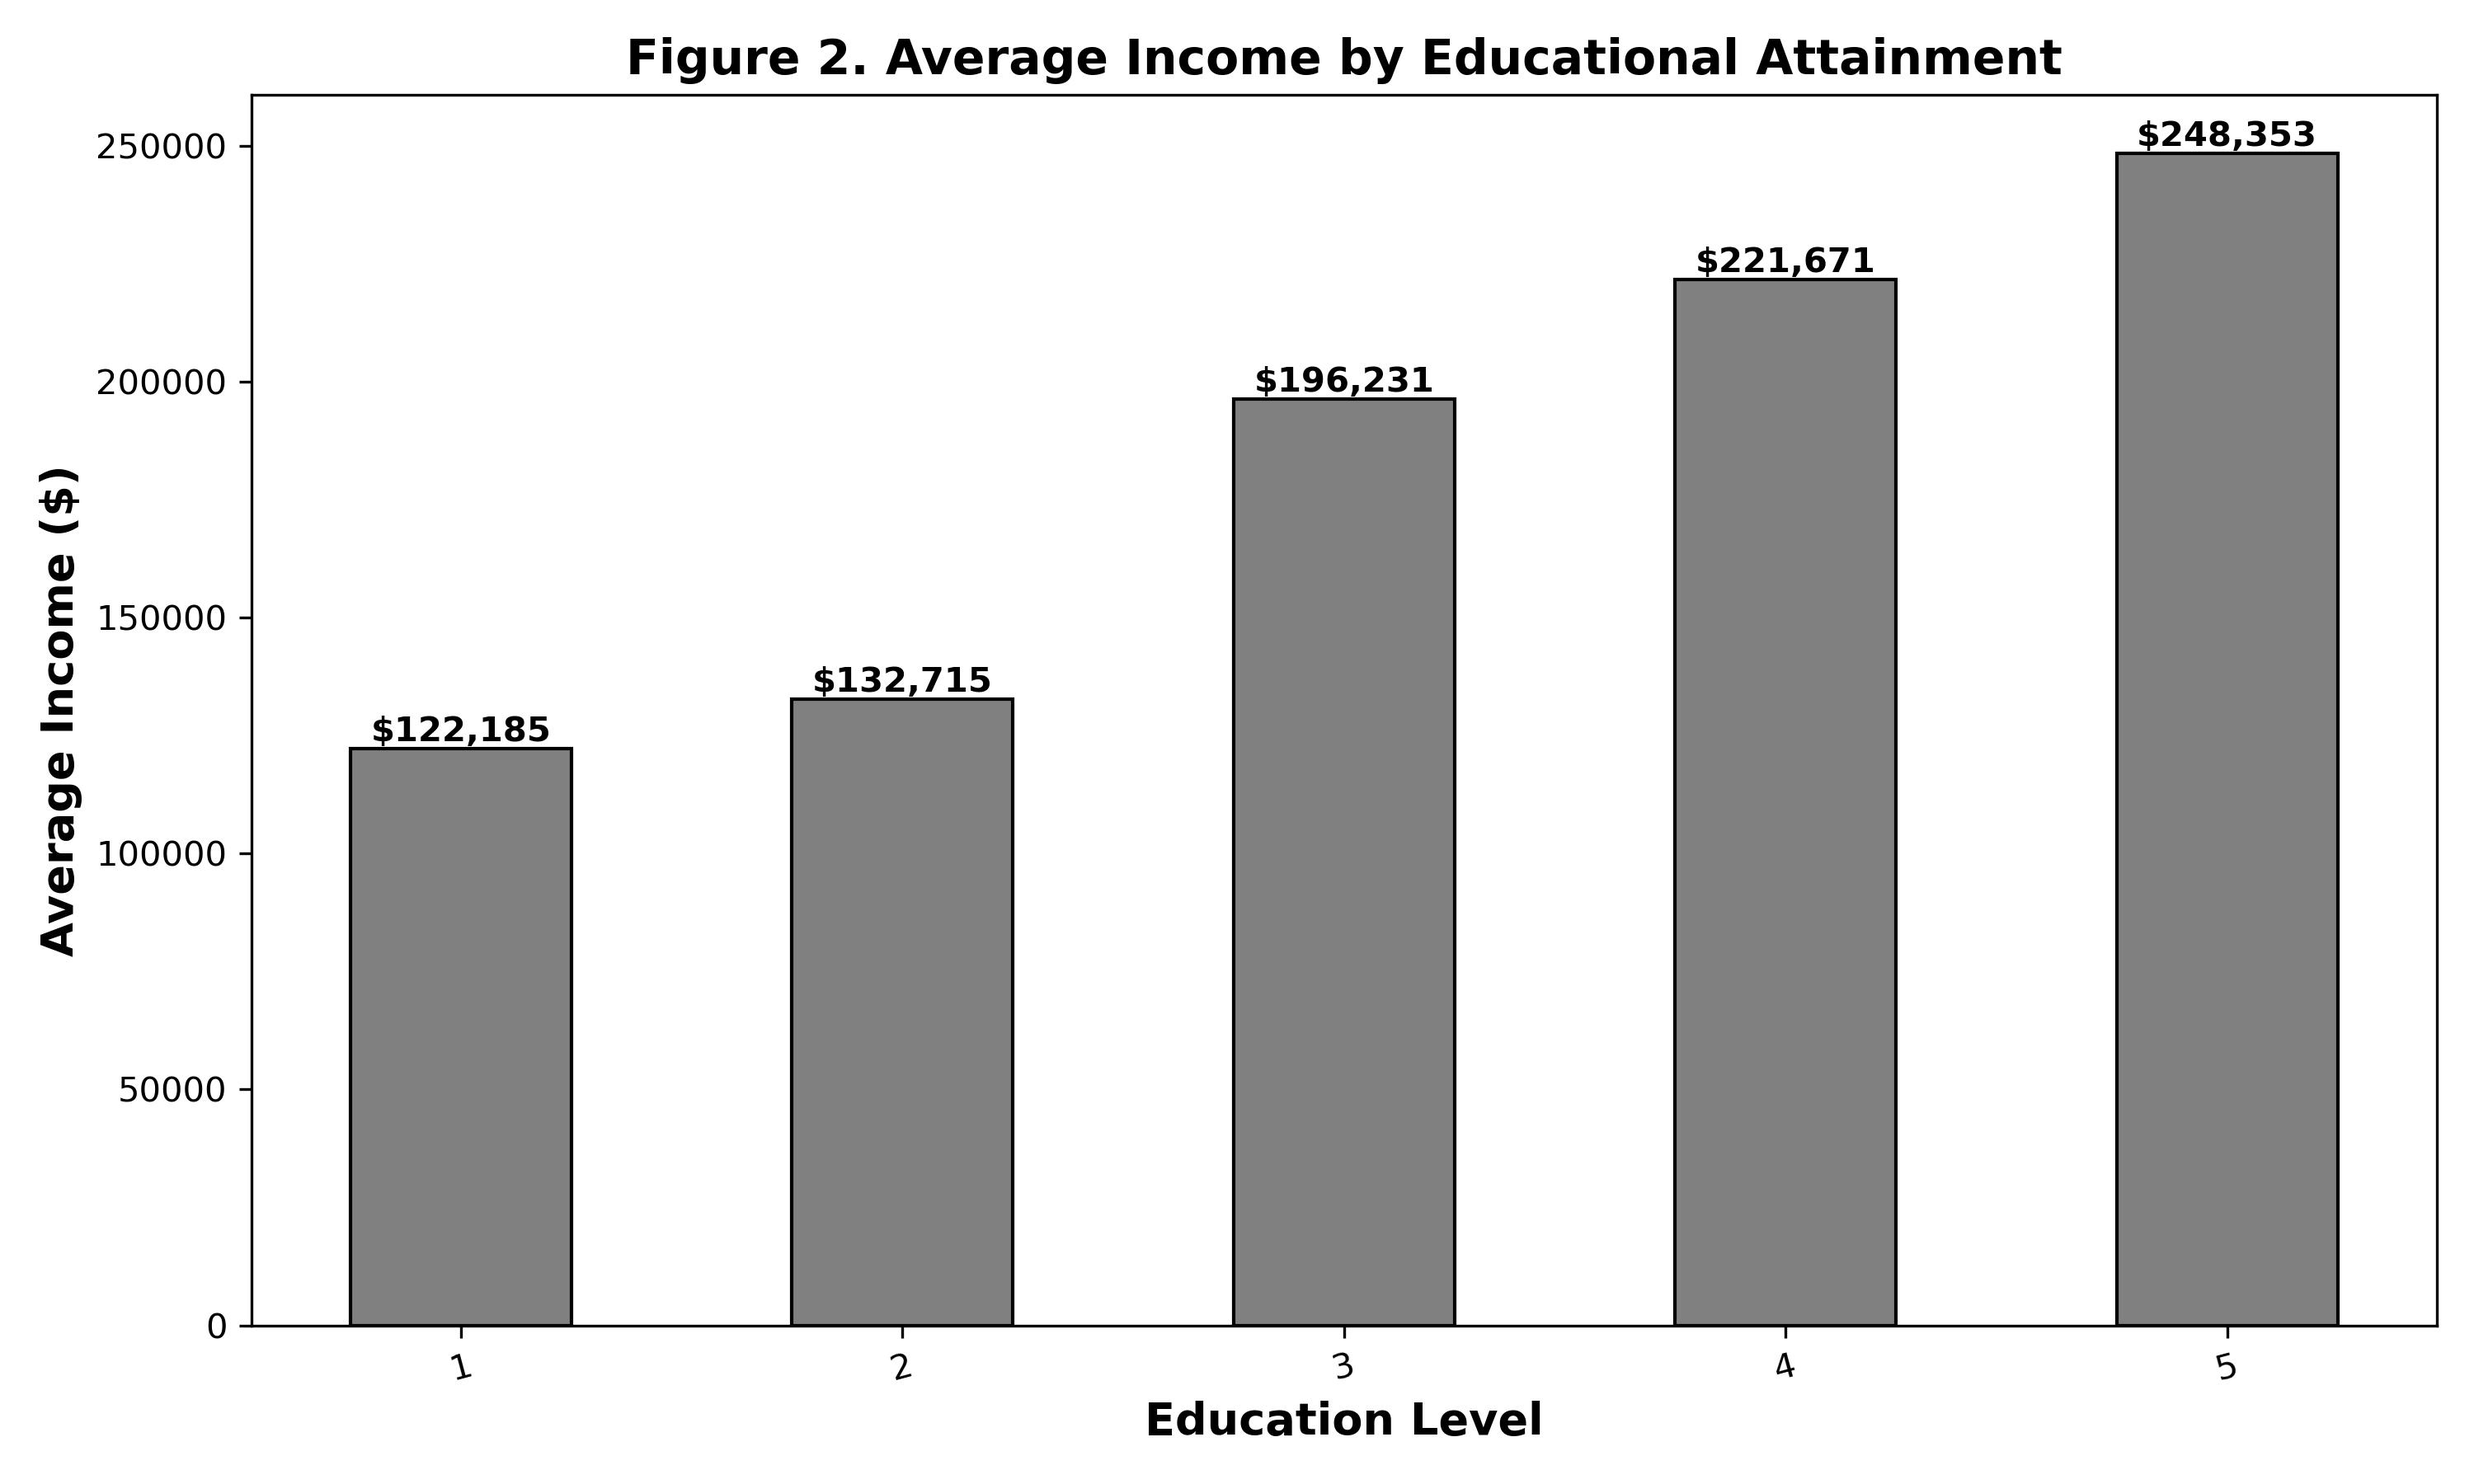
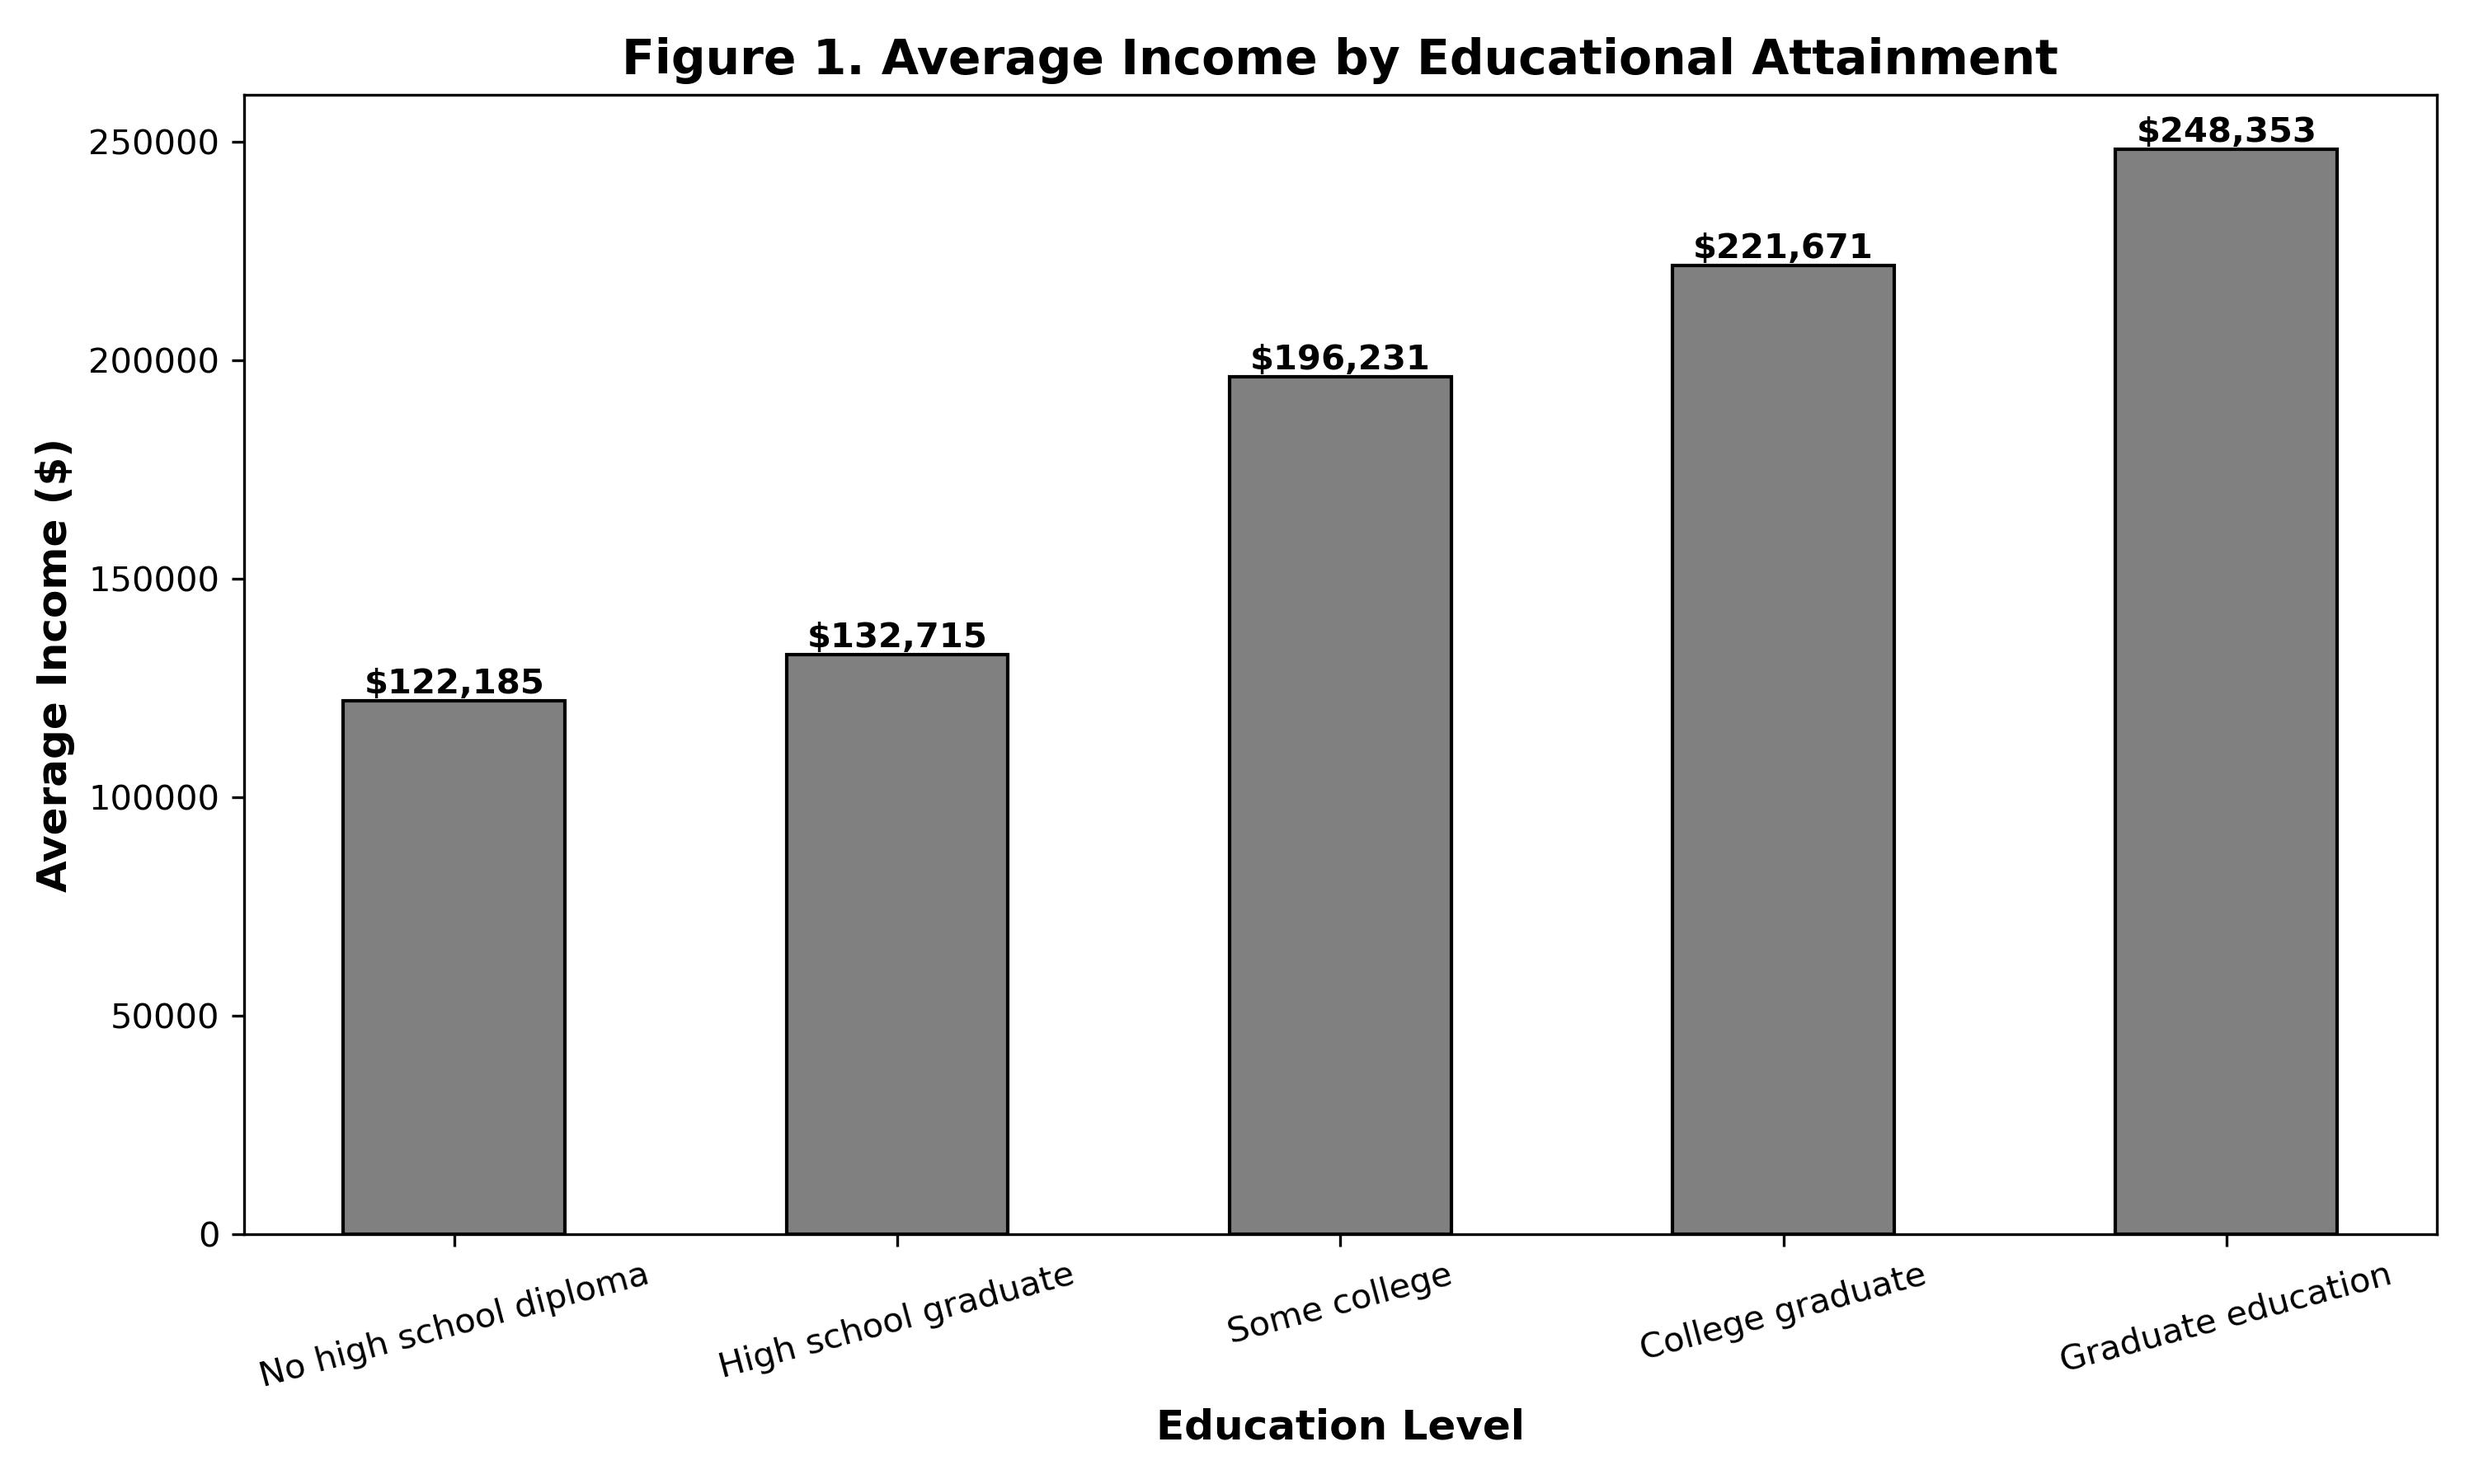
Final

diff --git a/main.py b/main.py
@@ -10,6 +10,8 @@
 import os
 import pandas as pd
 import matplotlib.pyplot as plt
+from scipy.stats import ttest_ind
+from tabulate import tabulate
 
 #intialize db
 db = pd.read_csv(os.path.join(os.getcwd(), "DB1.csv"))
@@ -45,14 +47,13 @@ def gen_table1(db: pd.DataFrame) -> pd.DataFrame:
 
 #generate table1 and export to excel
 table1 = gen_table1(db)
-print(table1)
-#table1.to_excel("Table1.xlsx")
+table1.to_excel("Table1.xlsx")
 
 #gerneate and return table2 (Descriptive stats for categorical variables)
 def gen_table2(db: pd.DataFrame) -> pd.DataFrame:
     #Setup labels for all the rows
     labels = {
-    'gender': {
+    'male': {
         0: 'Female', 
         1: 'Male'
     },
@@ -104,6 +105,10 @@ def gen_table2(db: pd.DataFrame) -> pd.DataFrame:
     table2['Percent'] = table2['Percent'].map(lambda x: f"{x:.2f}%")      
     return table2
 
+#generate table1 and export to excel
+table2 = gen_table2(db)
+table2.to_excel("Table2.xlsx")
+
 def gen_state_table(db: pd.DataFrame) -> pd.DataFrame:
 
     #dict to translate codes to state names
@@ -144,9 +149,13 @@ def gen_state_table(db: pd.DataFrame) -> pd.DataFrame:
     state_table['Percent'] = state_table['Percent'].map(lambda x: f"{x:.2f}%")
     return state_table
 
+#generate table1 and export to excel
+states = gen_state_table(db)
+states.to_excel("States.xlsx")
+
 def gen_income_chart(db: pd.DataFrame):
     #sort by education and get mean for each group
-    avg_by_ed = db.groupby('ed')['income'].mean().sort_index()
+    avg_by_ed = db.groupby('ed')['income'].mean().sort_values(ascending=True)
     
     #setup chart
     plt.figure(figsize=(10, 6))
@@ -167,9 +176,50 @@ def gen_income_chart(db: pd.DataFrame):
     plt.tight_layout()
     plt.savefig("Income_by_Education_Chart.jpg", dpi=300)
     plt.show()
-
-# Run the function
 gen_income_chart(db)
 
-print(gen_table2(db))
-print(gen_state_table(db))
+def gen_gender_gap_table(db: pd.DataFrame) -> pd.DataFrame:
+    # define races
+    races = ['White', 'Black', 'Asian', 'Hispanic', 'Other']
+    
+    t_table_rows = []
+    
+    for race_name in races:
+        # filter race data
+        race_data = db[db['raceethnic'] == race_name]
+        
+        # filter male/female inc
+        men_inc = race_data[race_data['male'] == 'Male']['income']
+        women_inc = race_data[race_data['male'] == 'Female']['income']
+        
+        # fix the small sample error
+        if len(men_inc) > 1 and len(women_inc) > 1:
+            mean_m = men_inc.mean()
+            mean_w = women_inc.mean()
+            diff = mean_m - mean_w
+            
+            # t-test
+            p_val = ttest_ind(men_inc, women_inc, nan_policy='omit', equal_var=False).pvalue
+            
+            #add stars
+            stars = ""
+            if p_val <= 0.01: stars = "***"
+            elif p_val <= 0.05: stars = "**"
+            elif p_val <= 0.10: stars = "*"
+            
+            t_table_rows.append([
+                race_name,
+                f"${mean_m:,.2f}",
+                f"${mean_w:,.2f}",
+                f"${diff:,.2f}{stars}"
+            ])
+        else:
+            #incase theres no data
+            t_table_rows.append([race_name, "No Data", "No Data", "No Data"])
+
+    columns = ['Race', 'Men Avg. Income', 'Women Avg. Income', 'Difference (Men-Women)']
+    return pd.DataFrame(t_table_rows, columns=columns)
+
+# Generate and Print
+gender_gap_table = gen_gender_gap_table(db)
+gender_gap_table.to_excel("Gender.xlsx")
